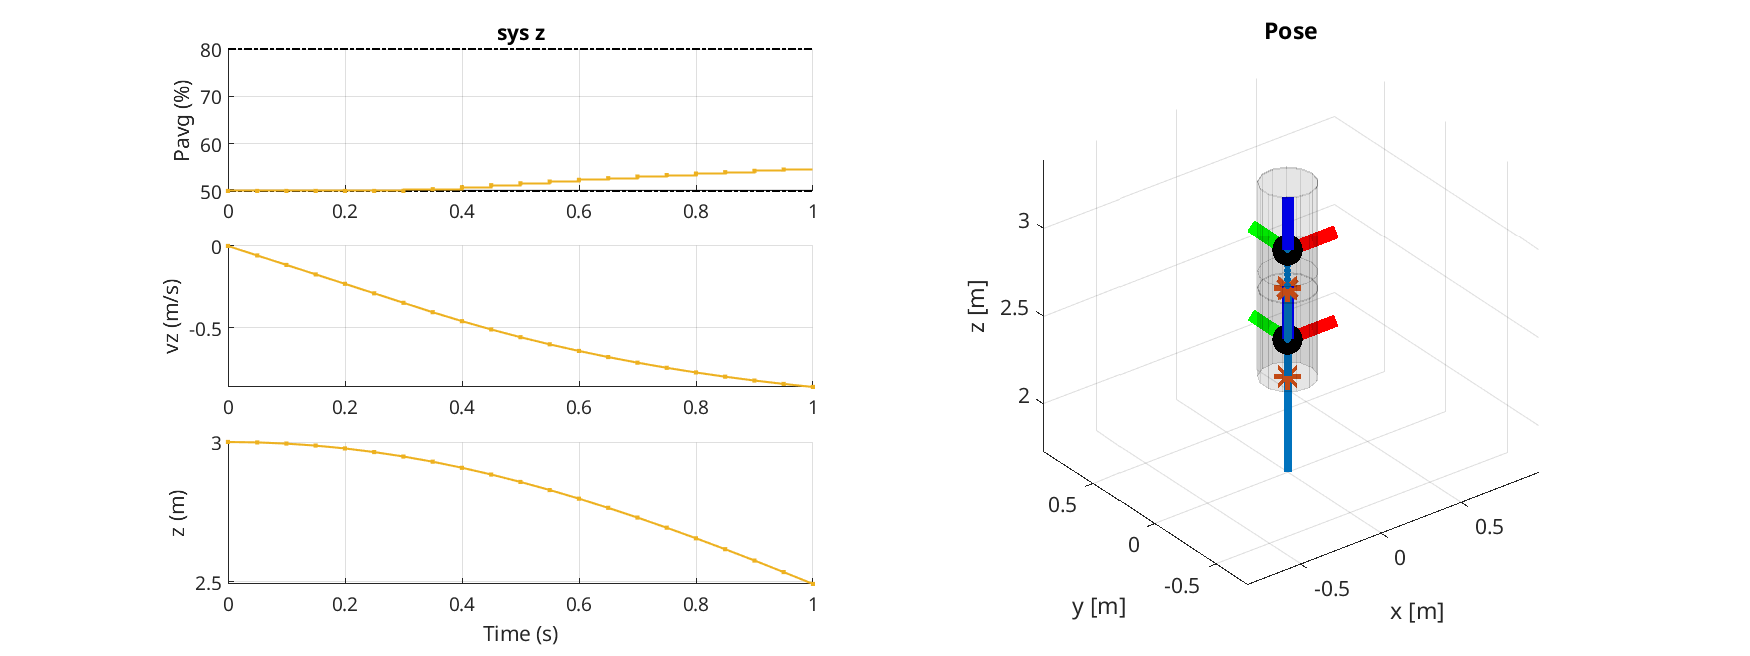
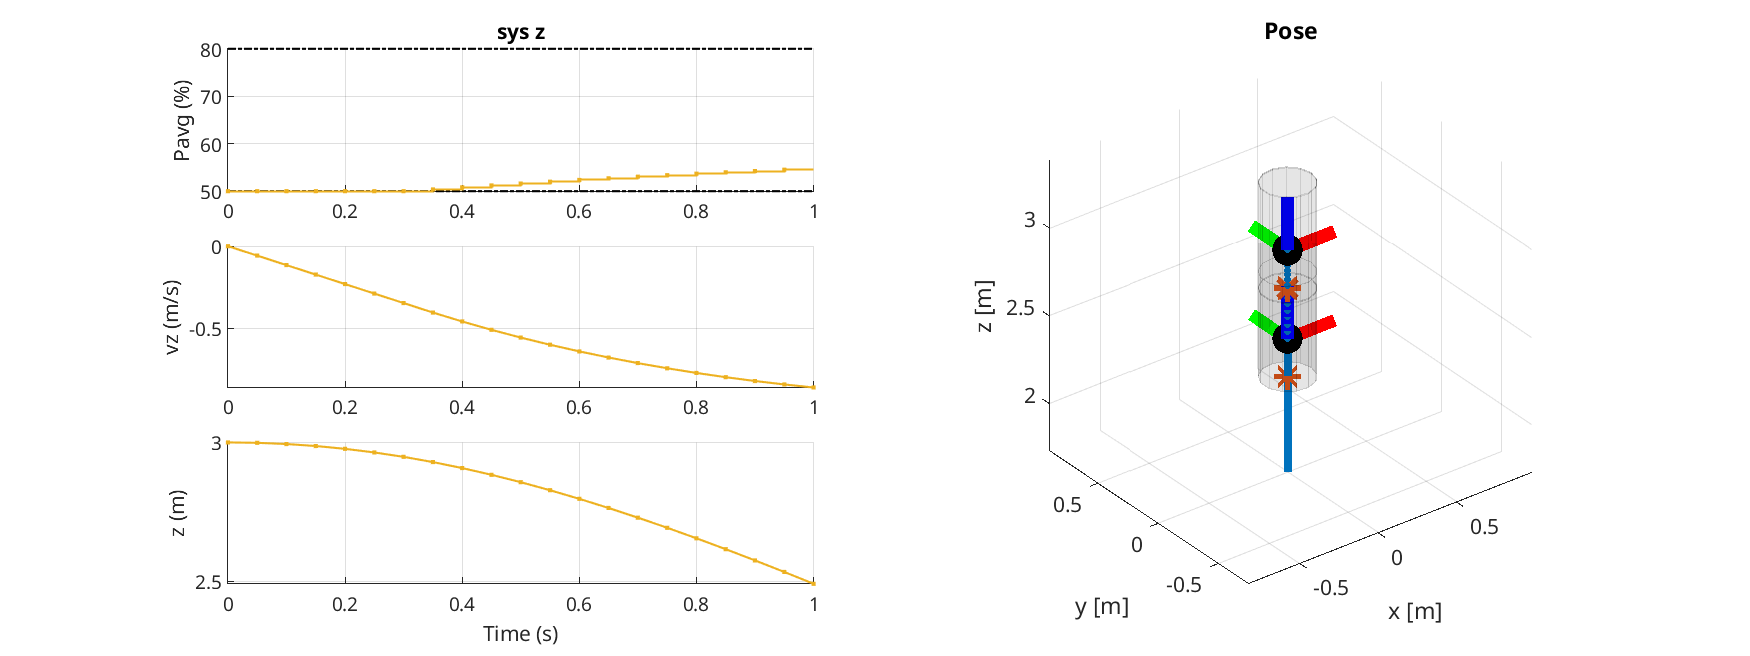
consistent weights between 3.1 and 3.2 / image generation 3.1/3.2

diff --git a/Deliverable_3_2/MpcControl_x.m b/Deliverable_3_2/MpcControl_x.m
@@ -34,8 +34,7 @@ classdef MpcControl_x < MpcControlBase
             
             % Horizon and cost matrices
             Q = 10 * eye(4);
-            Q(4,4) = 40;
-            R = .01;
+            R = 1;
             
             % Constraints
 
@@ -45,23 +44,7 @@ classdef MpcControl_x < MpcControlBase
             F = [0 1 0 0; 0 -1 0 0]; f = [.1745; .1745];
             
             % Compute LQR controller for unconstrained system
-            [K,Qf,~] = dlqr(mpc.A,mpc.B,Q,R);
-            % MATLAB defines K as -K, so invert its sign
-            K = -K; 
-            
-            % Compute maximal invariant set
-            Xf = polytope([F;M*K],[f;m]);
-            Acl = mpc.A+mpc.B*K;
-            while 1
-                prevXf = Xf;
-                [T,t] = double(Xf);
-                preXf = polytope(T*Acl,t);
-                Xf = intersect(Xf, preXf);
-                if isequal(prevXf, Xf)
-                    break
-                end
-            end
-            [Ff,ff] = double(Xf);
+            [~,Qf,~] = dlqr(mpc.A,mpc.B,Q,R);
 
             % SET THE PROBLEM CONSTRAINTS con AND THE OBJECTIVE obj HERE
 
@@ -72,7 +55,6 @@ classdef MpcControl_x < MpcControlBase
                 con = con + (F*X(:,i) <= f) + (M*U(:,i) <= m);
                 obj = obj + (X(:,i) - x_ref)' * Q * (X(:,i) - x_ref) + (U(:,i) - u_ref)' * R * (U(:,i) - u_ref);
             end
-            %con = con + (Ff * (X(:,N) - x_ref) <= ff);
             obj = obj + (X(:,N) - x_ref)' * Qf * (X(:,N) - x_ref);
             
             % YOUR CODE HERE YOUR CODE HERE YOUR CODE HERE YOUR CODE HERE

diff --git a/Deliverable_3_2/MpcControl_z.m b/Deliverable_3_2/MpcControl_z.m
@@ -45,32 +45,14 @@ classdef MpcControl_z < MpcControlBase
 
             % Horizon and cost matrices
             Q = 10 * eye(2);
-            Q(2,2) = 75;
-            R = .01;
+            R = 1;
 
             % u in U = { u | Mu <= m }
             us = 56.6667;
             M = [1;-1]; m = [80-us; -(50-us)];
                
             % Compute LQR controller for unconstrained system
-            [K,Qf,~] = dlqr(mpc.A,mpc.B,Q,R);
-            % MATLAB defines K as -K, so invert its sign
-            K = -K; 
-            
-            % Compute maximal invariant set
-            Xf = polytope(M * K, m);
-            Acl = mpc.A+mpc.B*K;
-            while 1
-                prevXf = Xf;
-                [T,t] = double(Xf);
-                preXf = polytope(T*Acl,t);
-                Xf = intersect(Xf, preXf);
-                if isequal(prevXf, Xf)
-                    break
-                end
-            end
-            [Ff,ff] = double(Xf);
-            
+            [~,Qf,~] = dlqr(mpc.A,mpc.B,Q,R);
 
             % SET THE PROBLEM CONSTRAINTS con AND THE OBJECTIVE obj HERE
             con = (X(:,2) == mpc.A*X(:,1) + mpc.B*U(:,1)) + (M*U(:,1) <= m);
@@ -80,7 +62,6 @@ classdef MpcControl_z < MpcControlBase
                 con = con + (M*U(:,i) <= m);
                 obj = obj + (X(:,i) - x_ref)' * Q * (X(:,i) - x_ref) + (U(:,i) - u_ref)' * R * (U(:,i) - u_ref);
             end
-            %con = con + (Ff * (X(:,N) - x_ref) <= ff);
             obj = obj + (X(:,N) - x_ref)' * Qf * (X(:,N) - x_ref);
             
             

diff --git a/Deliverable_3_2/MpcControl_y.m b/Deliverable_3_2/MpcControl_y.m
@@ -40,8 +40,7 @@ classdef MpcControl_y < MpcControlBase
             
             % Horizon and cost matrices
             Q = 10 * eye(4);
-            Q(4,4) = 40;
-            R = .01;
+            R = 1;
             
             % Constraints
             
@@ -52,23 +51,7 @@ classdef MpcControl_y < MpcControlBase
             F = [0 1 0 0; 0 -1 0 0]; f = [.1745; .1745];
             
             % Compute LQR controller for unconstrained system
-            [K,Qf,~] = dlqr(mpc.A,mpc.B,Q,R);
-            % MATLAB defines K as -K, so invert its sign
-            K = -K; 
-            
-            % Compute maximal invariant set
-            Xf = polytope([F;M*K],[f;m]);
-            Acl = mpc.A+mpc.B*K;
-            while 1
-                prevXf = Xf;
-                [T,t] = double(Xf);
-                preXf = polytope(T*Acl,t);
-                Xf = intersect(Xf, preXf);
-                if isequal(prevXf, Xf)
-                    break
-                end
-            end
-            [Ff,ff] = double(Xf);
+            [~,Qf,~] = dlqr(mpc.A,mpc.B,Q,R);
 
             % SET THE PROBLEM CONSTRAINTS con AND THE OBJECTIVE obj HERE
 
@@ -79,7 +62,6 @@ classdef MpcControl_y < MpcControlBase
                 con = con + (F*X(:,i) <= f) + (M*U(:,i) <= m);
                 obj = obj + (X(:,i) - x_ref)' * Q * (X(:,i) - x_ref) + (U(:,i) - u_ref)' * R * (U(:,i) - u_ref);
             end
-            %con = con + (Ff * (X(:,N) - x_ref) <= ff);
             obj = obj + (X(:,N) - x_ref)' * Qf * (X(:,N) - x_ref);
             
 

diff --git a/Deliverable_3_2/MpcControl_roll.m b/Deliverable_3_2/MpcControl_roll.m
@@ -30,31 +30,14 @@ classdef MpcControl_roll < MpcControlBase
             % YOUR CODE HERE YOUR CODE HERE YOUR CODE HERE YOUR CODE HERE
 
             % Horizon and cost matrices
-            Q = 10 * eye(2);
-            Q(2,2) = 70;
-            R = .01;
+            Q = 20 * eye(2);
+            R = 1;
 
             % u in U = { u | Mu <= m }
             M = [1;-1]; m = [20; 20];
    
             % Compute LQR controller for unconstrained system
-            [K,Qf,~] = dlqr(mpc.A,mpc.B,Q,R);
-            % MATLAB defines K as -K, so invert its sign
-            K = -K; 
-            
-            % Compute maximal invariant set
-            Xf = polytope(M*K,m);
-            Acl = mpc.A+mpc.B*K;
-            while 1
-                prevXf = Xf;
-                [T,t] = double(Xf);
-                preXf = polytope(T*Acl,t);
-                Xf = intersect(Xf, preXf);
-                if isequal(prevXf, Xf)
-                    break
-                end
-            end
-            [Ff,ff] = double(Xf);
+            [~,Qf,~] = dlqr(mpc.A,mpc.B,Q,R);
 
             % SET THE PROBLEM CONSTRAINTS con AND THE OBJECTIVE obj HERE
 
@@ -65,7 +48,6 @@ classdef MpcControl_roll < MpcControlBase
                 con = con + (M*U(:,i) <= m);
                 obj = obj + (X(:,i) - x_ref)' * Q * (X(:,i) - x_ref) + (U(:,i) - u_ref)' * R * (U(:,i) - u_ref);
             end
-            con = con + (Ff * (X(:,N) - x_ref) <= ff);
             obj = obj + (X(:,N) - x_ref)' * Qf * (X(:,N) - x_ref);
             
             

diff --git a/Deliverable_3_2/Deliverable_3_2.m b/Deliverable_3_2/Deliverable_3_2.m
@@ -50,7 +50,7 @@ ph = rocket.plotvis_sub(T, X_sub, U_sub, sys_x, xs, us, ref_xyz);
 ph.fig.Name = "Controller X - closed loop";
 saveas(ph.fig,'img/xclosed.png')
 
-%% controller Y,
+%% controller Y
 [~, T_opt, X_opt, U_opt] = mpc_y.get_u(x_y_0,ref_xyz);
 U_opt(:,end+1) = NaN;
 % Account for linearization point
